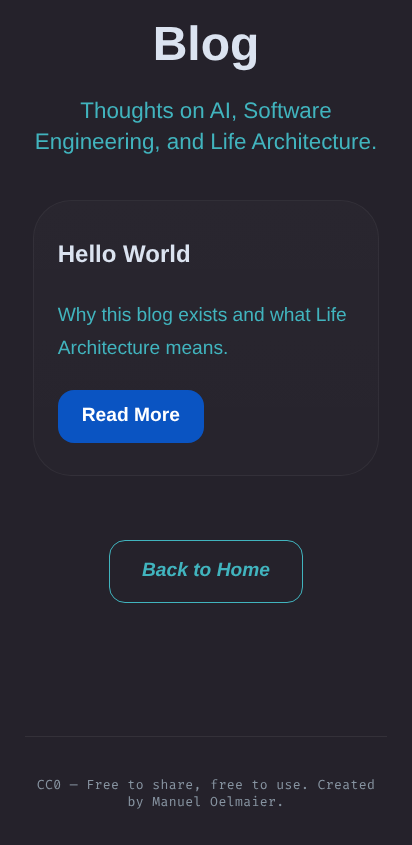
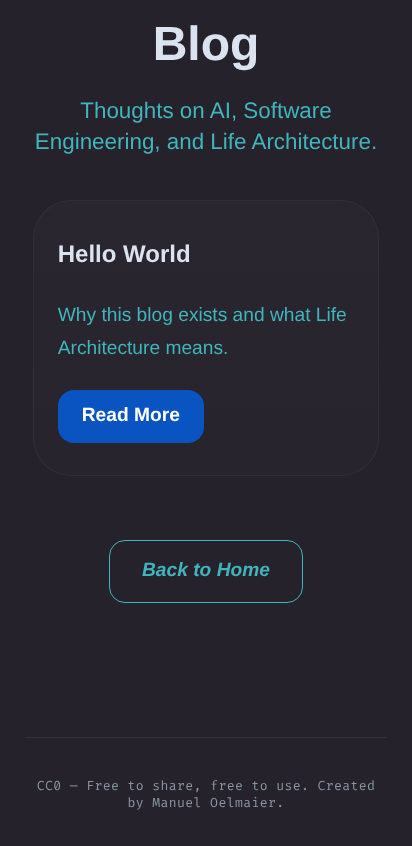
Sharpen hero tagline and reduce hero height
Tagline: 'I own AI integration end-to-end — model selection, tooling,
and deployment — built to engineering standards: CI/CD tested, metrics-driven.'

Hero min-height 55vh → 38vh so About Me is visible on first load.
Added positioning comment documenting the intended message.

diff --git a/src/styles/style.css b/src/styles/style.css
@@ -158,13 +158,14 @@ strong {
 
 /* ── Hero ────────────────────────────────────────── */
 
+/* Hero is intentionally compact — About Me should be visible on first load */
 .hero {
     display: flex;
     flex-direction: column;
     align-items: center;
     justify-content: center;
-    min-height: 55vh;
-    padding: 5rem 0 3rem;
+    min-height: 38vh;
+    padding: 3.5rem 0 2.5rem;
     background: radial-gradient(circle at center, rgba(185, 49, 50, 0.05) 0%, transparent 70%);
     /* hero spans full width visually, override section max-width */
     max-width: none;